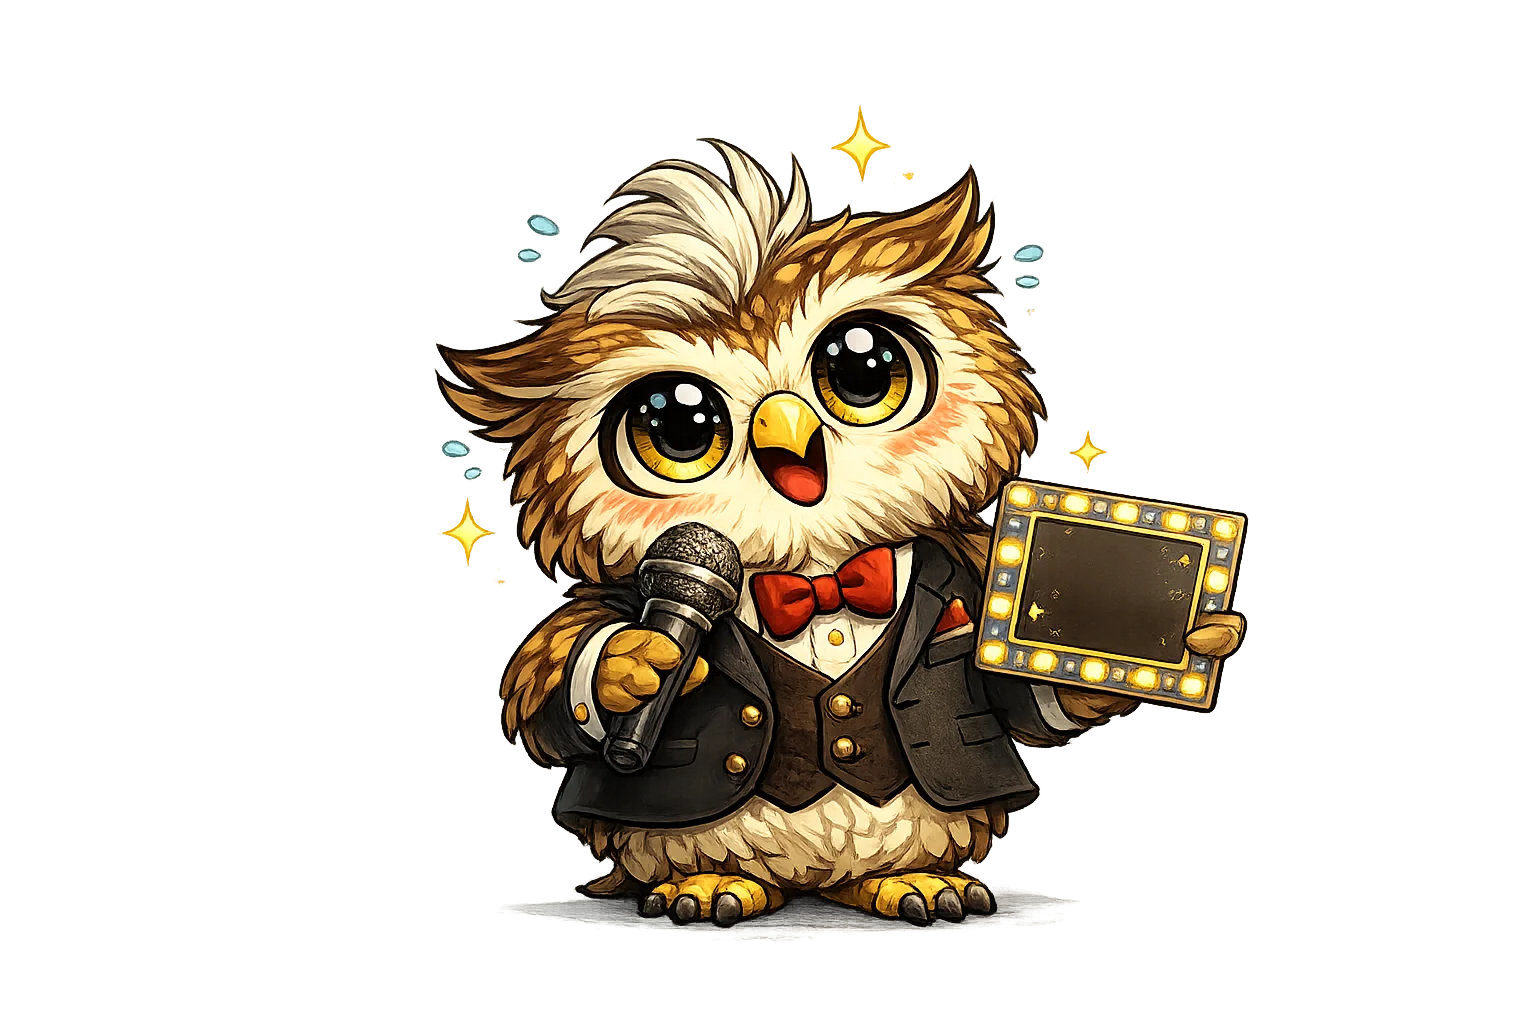
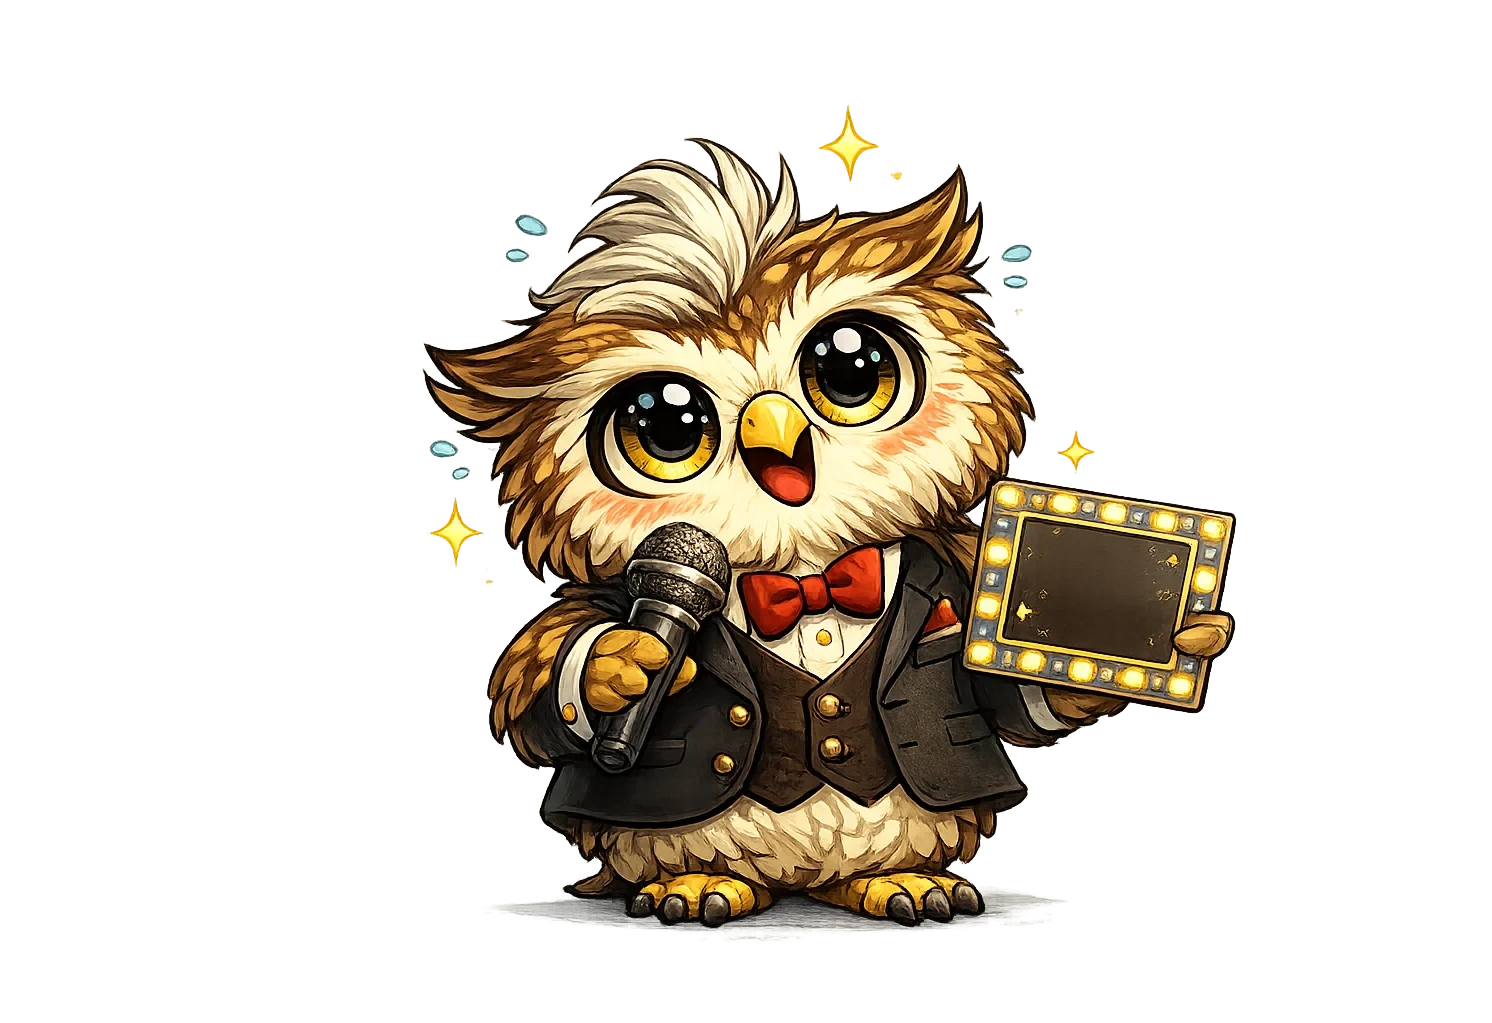
Tighten owl-to-title spacing on title screen
Crop transparent edges from Game_Show_Owl.webp and reduce gap/height/margin
between owl and EQUITY FEUD title for a tighter visual layout.

Changed region(s): [[0.2775, 0.0909, 0.8324, 0.9091]]

diff --git a/src/screens/Board.tsx b/src/screens/Board.tsx
@@ -90,14 +90,14 @@ function TitleScreen({ config }: { config: { team1Name: string; team2Name: strin
   return (
     <div className="min-h-screen flex flex-col title-bg">
       <AepHeader />
-      <div className="flex-1 flex flex-col items-center pt-6 gap-3">
+      <div className="flex-1 flex flex-col items-center pt-6 gap-1">
         <img
           src="/Game_Show_Owl.webp"
           alt="Equity Feud Owl"
           className="owl-idle object-contain"
-          style={{ width: 550, height: 550, filter: 'drop-shadow(0 0 60px rgba(255,200,50,0.5)) drop-shadow(0 0 100px rgba(172,34,40,0.4))' }}
+          style={{ width: 480, height: 380, filter: 'drop-shadow(0 0 60px rgba(255,200,50,0.5)) drop-shadow(0 0 100px rgba(172,34,40,0.4))' }}
         />
-        <h1 className="font-bungee text-8xl text-[var(--gold)] title-glow -mt-2">EQUITY FEUD</h1>
+        <h1 className="font-bungee text-8xl text-[var(--gold)] title-glow -mt-4">EQUITY FEUD</h1>
         <p className="font-bungee text-xl tracking-widest text-white/30 tagline-pulse">SURVEY SAYS...</p>
         <div className="flex gap-10 text-5xl font-bungee items-center mt-2">
           <span className="text-blue-400 team-glow-blue">{config.team1Name}</span>
